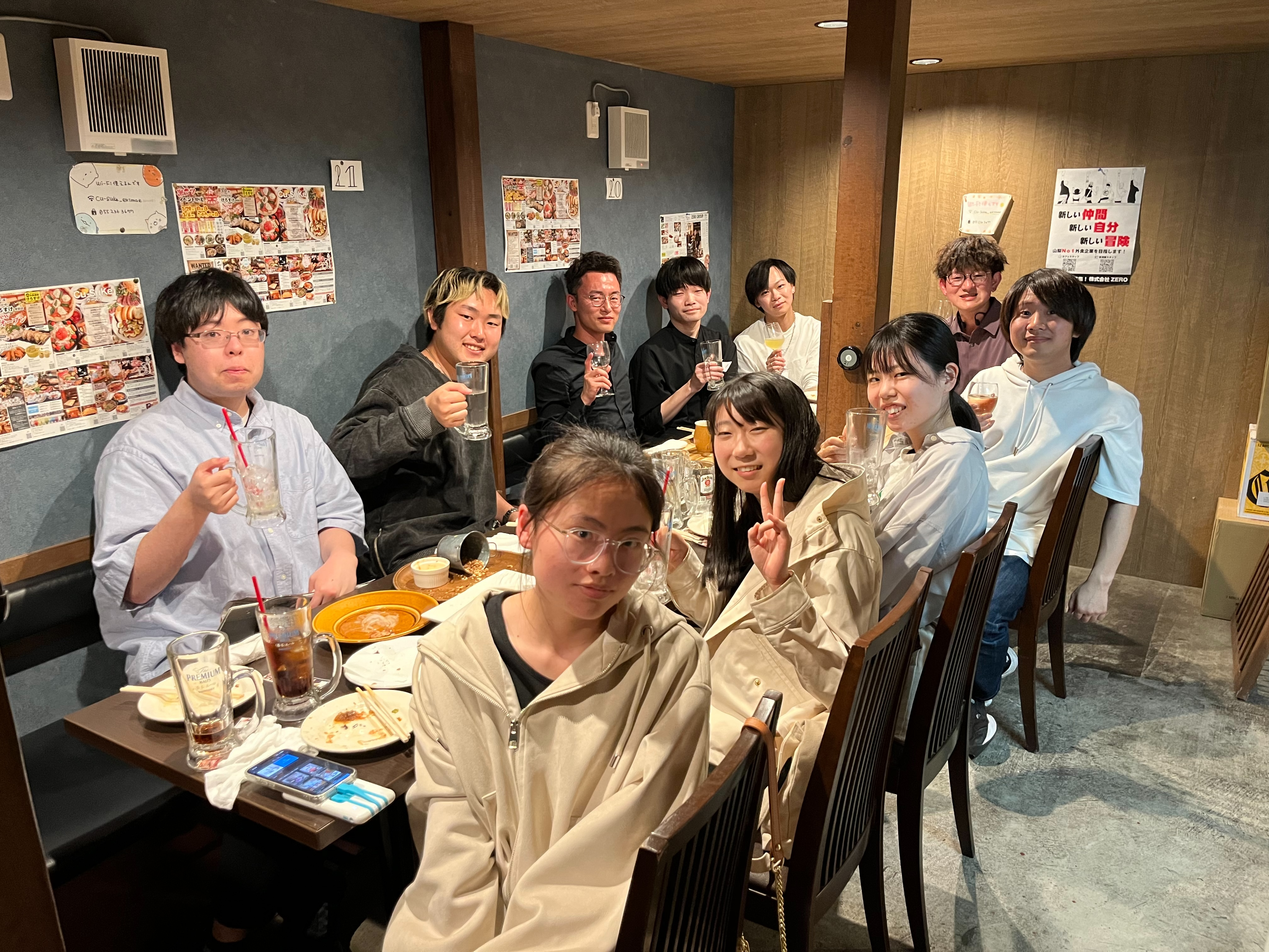
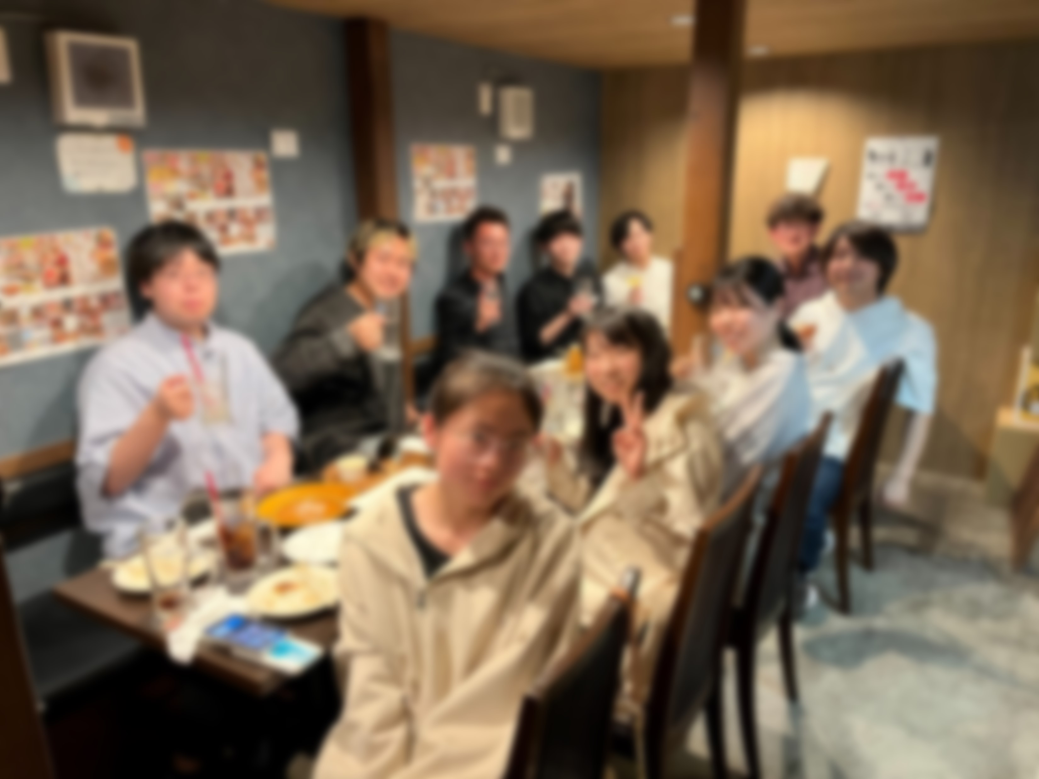
修正

diff --git a/topic.html b/topic.html
@@ -38,7 +38,6 @@
 	        margin-right: 100px;
 	        margin-top: 10px;
     		margin-bottom: 0px; 
-    		filter: blur(0.7px);
 	    }
 	    
 	    .frame p {
@@ -75,17 +74,46 @@
     
 <div style="text-align:center;">    
 	<h1><span class="create_text1"> トピックス </span></h1>
-	<br>
-	<div style = "padding-right:70%"><font size = 5 color = #6f5436><b> 2024/4/17 </b></font></div><br>
+	
+	<div style = "padding-right:70%"><font size = 5 color = #6f5436><b> 2024/10 </b></font></div><br>
 	<div class="frame">
-		<div><img src="image/歓迎会.jpg"><p>
-			<font size = 3 color = #606060> 歓迎会が行われました.<br>今回は鳥谷先生,修士生,学部生の計10人が参加しました.<br>1年間よろしくお願いします. <br><br><br></font><p></div></div><br>
+		<div>
+			<font size = 3 color = #606060> 2024 IEEE 13th Global Conference on Consumer Electronics (GCCE 2024) にて鳥谷輝樹助教，有泉千太さんが発表を行いました．
+			<a href="https://www.ieee-gcce.org/2024/index.html"> ( 外部サイト )</a><br>
+			この国際会議にて，鳥谷助教がSilver Prizeを受賞しました．
+			<a href="https://www.ieee-gcce.org/2024/awards.html"> ( 受賞者一覧 )</a>
+			</font><p></div></div><br>
 	<br>
 	<hr>
 	<br>
-	<div style = "padding-right:70%"><font size = 5 color = #6f5436><b> 2024/3/8 </b></font></div>
+	<div style = "padding-right:70%"><font size = 5 color = #6f5436><b> 2024/9 </b></font></div><br>
+	<div class="frame">
+		<div>
+			<font size = 3 color = #606060> 日本音響学会第152回 (2024年秋季) 研究発表会にて久保田樹さん，幸田怜奈さんが発表を行いました．<br>
+			<a href="https://acoustics.jp/annualmeeting/program/"> ( 外部サイト )</a>
+			</font><p></div></div><br>
 	<br>
-	<font size = 3 color = #606060> 2024年度の研究室配属が行われ,新たに5人のメンバーが加わりました. </font><br>
+	<hr>
+	<br>
+	<div style = "padding-right:70%"><font size = 5 color = #6f5436><b> 2024/6 </b></font></div><br>
+	<div class="frame">
+		<div>
+			<font size = 3 color = #606060> 音学シンポジウム2024 (第140回MUS・第152回SLP合同研究発表会) にて久保田樹さんが発表を行いました．<br>
+			<a href="https://www.ipsj.or.jp/kenkyukai/event/mus140slp152.html"> ( 外部サイト )</a>
+			</font><p></div></div><br>
+	<br>
+	<hr>
+	<br>
+	<div style = "padding-right:70%"><font size = 5 color = #6f5436><b> 2024/4 </b></font></div><br>
+	<div class="frame">
+		<div><img src="image/歓迎会.jpg"><p>
+			<font size = 3 color = #606060> 歓迎会が行われました．<br>今回は鳥谷先生，修士生，学部生の計10人が参加しました．<br>1年間よろしくお願いします．<br><br><br></font><p></div></div><br>
+	<br>
+	<hr>
+	<br>
+	<div style = "padding-right:70%"><font size = 5 color = #6f5436><b> 2024/3 </b></font></div>
+	<br>
+	<font size = 3 color = #606060> 2024年度の研究室配属が行われ，新たに5人のメンバーが加わりました． </font><br>
 	<br>
 </div>
     

diff --git a/header.html b/header.html
@@ -73,7 +73,6 @@
 					<li><a href="index.html">ホーム</a></li>
 					<li><a href="member.html">メンバ</a></li>
 					<li><a href="laboratory_intoriduction.html">研究室紹介</a></li>
-					<li><a href="study.html">研究実績</a></li>
 					<li><a href="topic.html">トピックス</a></li>					
 					<li><a href="https://www.ccn.yamanashi.ac.jp/~ozawa/HP/newpage8.html">研究プロジェクト</a></li>
 					<li><a href="https://sites.google.com/view/ozawalaboratory-2023/%E3%83%9B%E3%83%BC%E3%83%A0">昨年度のページ</a></li>				

diff --git a/member.html b/member.html
@@ -73,7 +73,7 @@
     <div style = "padding-right:30%"><font size = 5 color = #6f5436><b> 修士課程 </b></font></div>
     <br>
     <font size = 3 color = #606060> 有泉 千太 </font><br>
-    <font size = 3 color = #606060> Yang Ziwei </font><br>
+    <font size = 3 color = #606060> Yan Jianghan </font><br>
     <font size = 3 color = #606060> 久保田 樹 </font><br>
     <font size = 3 color = #606060> 両角 有真 </font><br>
     
